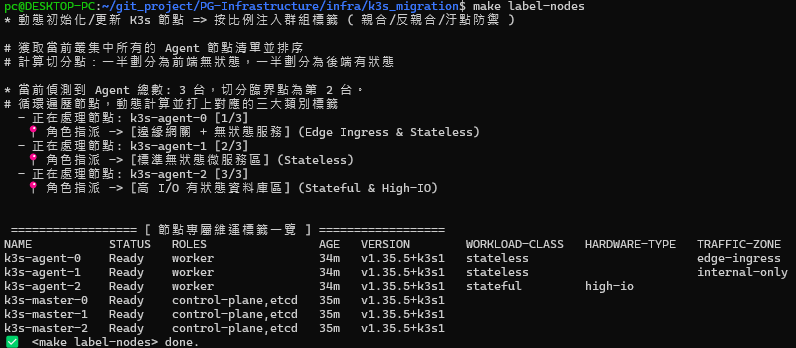
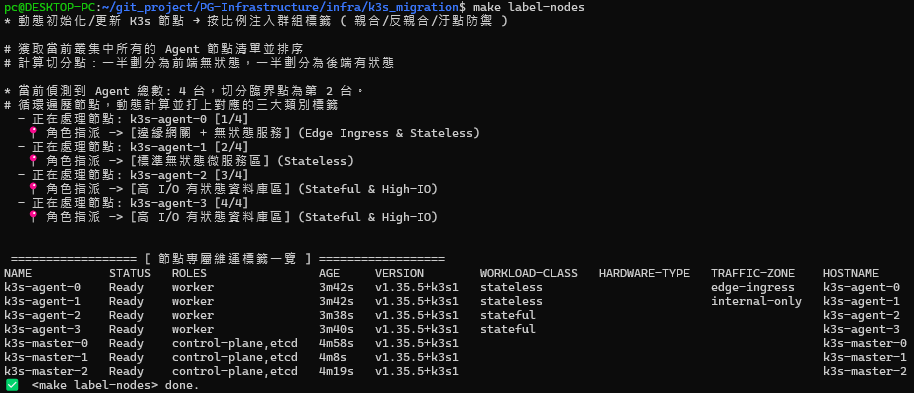
update somethings

Changed region(s): [[0.0, 0.0, 0.7538, 0.5747], [0.0, 0.6322, 0.995, 1.0], [0.7236, 0.8046, 0.8141, 0.8333]]

diff --git a/infra/k3s_migration/infra-live/README.md b/infra/k3s_migration/infra-live/README.md
@@ -325,13 +325,13 @@ kubectl delete clusterrole traefik-kube-system --ignore-not-found
     # 節點資源配額預佔狀態 + 叢集硬體算力消耗狀態
     make k-top
     
-    # 啟動 ingress-nginx → 已將其加入正式定義 無須用此方式
+    # 啟動 ingress-nginx → 已將其加入正式定義 無須用此方式 ( ⭐ VM 初始化階段會一步到位 )
     make upgrade-ingress
     
     # 檢視 Secrets 明文 ( ex: homelab-test )
     make see-secrets ENV=homelab-test
     
-    # 更新 VM Host 設定 => 可以拉取 registry images
+    # 更新 VM Host 設定 => 可以拉取 registry images ( ⭐ VM 初始化階段會一步到位 )
     make trigger-ansible src_type=registry
 
     # 更新 k9s 最愛設定
@@ -1038,8 +1038,22 @@ kubectl get app,appset,appproject -A
 ```
 $ watch -n 2 -d free -hw
 $ watch -n 2 -d "kubectl top nodes"
-$ make k-top
 
+
+$ make vm-format
+================== [ KVM 虛擬機算力與配置清單 ] ==================
+VM_NAME         STATUS     VCPU     MEMORY          DISK_SIZE
+----------------------------------------------------------------
+k3s-agent-2     running     4 核     4.0 GB          無實體磁碟
+k3s-agent-1     running     4 核     4.0 GB          無實體磁碟
+k3s-agent-0     running     4 核     4.0 GB          無實體磁碟
+k3s-agent-3     running     4 核     4.0 GB          無實體磁碟
+k3s-master-2    running     2 核     3.0 GB          無實體磁碟
+k3s-master-0    running     2 核     3.0 GB          無實體磁碟
+k3s-master-1    running     2 核     3.0 GB          無實體磁碟
+
+
+$ make k-top
 ================== [ 叢集硬體算力消耗狀態 ] ==================
 NAME           CPU(cores)   CPU(%)   MEMORY(bytes)   MEMORY(%)
 k3s-agent-0    185m         4%       947Mi           15%
@@ -1060,23 +1074,15 @@ k3s-master-2   351m         17%      1642Mi          83%
 <ul>
 
 ```
-argocd                       argocd-applicationset-controller-75fccf79bc-6qkrm                 1/1     Running   0          91m   10.42.1.2    k3s-master-2   <none>           <none>
-argocd                       argocd-notifications-controller-747fb557df-nnmnr                  1/1     Running   0          91m   10.42.2.2    k3s-master-1   <none>           <none>
-kube-system                  coredns-8db54c48d-2442m                                           1/1     Running   0          96m   10.42.0.2    k3s-master-0   <none>           <none>
-kube-system                  local-path-provisioner-5d9d9885bc-d4fnl                           1/1     Running   0          96m   10.42.0.3    k3s-master-0   <none>           <none>
-kube-system                  metrics-server-786d997795-k8pd4                                   1/1     Running   0          96m   10.42.0.4    k3s-master-0   <none>           <none>
-observability-homelab-test   loki-canary-cqqvt                                                 1/1     Running   0          81m   10.42.1.4    k3s-master-2   <none>           <none>
-observability-homelab-test   loki-canary-crq6z                                                 1/1     Running   0          81m   10.42.0.6    k3s-master-0   <none>           <none>
-observability-homelab-test   loki-canary-vw9dt                                                 1/1     Running   0          81m   10.42.2.4    k3s-master-1   <none>           <none>
-observability-homelab-test   loki-homelab-test-logs-fngcw                                      2/2     Running   0          80m   10.42.1.5    k3s-master-2   <none>           <none>
-observability-homelab-test   loki-homelab-test-logs-lsq9h                                      2/2     Running   0          80m   10.42.0.7    k3s-master-0   <none>           <none>
-observability-homelab-test   loki-homelab-test-logs-wq4xb                                      2/2     Running   0          80m   10.42.2.5    k3s-master-1   <none>           <none>
-observability-homelab-test   prometheus-stack-homelab-test-prometheus-node-exporter-8vb9p      1/1     Running   0          83m   10.88.0.12   k3s-master-2   <none>           <none>
-observability-homelab-test   prometheus-stack-homelab-test-prometheus-node-exporter-jqbj6      1/1     Running   0          83m   10.88.0.11   k3s-master-1   <none>           <none>
-observability-homelab-test   prometheus-stack-homelab-test-prometheus-node-exporter-k9x4f      1/1     Running   0          83m   10.88.0.10   k3s-master-0   <none>           <none>
-observability-homelab-test   promtail-homelab-test-48zqx                                       1/1     Running   0          68m   10.42.0.8    k3s-master-0   <none>           <none>
-observability-homelab-test   promtail-homelab-test-6pz9g                                       1/1     Running   0          67m   10.42.2.6    k3s-master-1   <none>           <none>
-observability-homelab-test   promtail-homelab-test-ckvqn                                       1/1     Running   0          69m   10.42.1.6    k3s-master-2   <none>           <none>
+kube-system                  coredns-8db54c48d-mxl46                                           1/1     Running             0          17m     10.42.0.3    k3s-master-0   <none>           <none>
+kube-system                  local-path-provisioner-5d9d9885bc-jggsl                           1/1     Running             0          17m     10.42.0.4    k3s-master-0   <none>           <none>
+kube-system                  metrics-server-786d997795-qwcvs                                   1/1     Running             0          17m     10.42.0.2    k3s-master-0   <none>           <none>
+observability-homelab-test   prometheus-stack-homelab-test-prometheus-node-exporter-2tdb5      1/1     Running             0          5m49s   10.88.0.12   k3s-master-2   <none>           <none>
+observability-homelab-test   prometheus-stack-homelab-test-prometheus-node-exporter-d8qhc      1/1     Running             0          5m46s   10.88.0.10   k3s-master-0   <none>           <none>
+observability-homelab-test   prometheus-stack-homelab-test-prometheus-node-exporter-zvr4v      1/1     Running             0          5m47s   10.88.0.11   k3s-master-1   <none>           <none>
+observability-homelab-test   promtail-homelab-test-49xvh                                       1/1     Running             0          6m55s   10.42.2.2    k3s-master-1   <none>           <none>
+observability-homelab-test   promtail-homelab-test-bk8kr                                       1/1     Running             0          6m55s   10.42.0.5    k3s-master-0   <none>           <none>
+observability-homelab-test   promtail-homelab-test-gtrhz                                       1/1     Running             0          6m55s   10.42.1.2    k3s-master-2   <none>           <none>
 ```
 
 </ul>